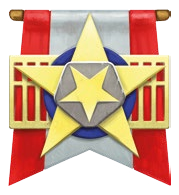
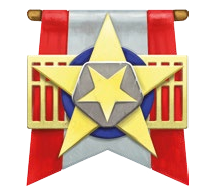
Adjust header (#94)

diff --git a/metadata.tex b/metadata.tex
@@ -178,11 +178,11 @@
   \raisebox{-\totalheight}[0pt][7pt]{
       \begin{tikzpicture}
         \draw (0, 0) node[inner sep=0] (header){\makebox[1.015\textwidth][c]{\includegraphics[width=1.055\linewidth, height=0.24\linewidth]{\layout/section_heading.png}}};
-        \draw (-6.2, 0) node {\includegraphics[width=0.125\textwidth]{#2}};
+        \draw (-6.7, 0) node {\includegraphics[width=0.135\textwidth]{#2}};
       \end{tikzpicture}
     }
   }
-  \begin{fullwidth}[leftmargin=0.2\textwidth]
+  \begin{fullwidth}[leftmargin=0.21\textwidth]
     \begin{center}
       \vspace{1em}
       \vspace{\lang_header_adjustment}
@@ -263,11 +263,11 @@
     \ifthenelse{\oneliner}{\def\yscale{1}}{\def\yscale{1.3}}
       \begin{tikzpicture}
         \draw (0, 0) node[inner sep=0, yscale=\yscale] (header){\makebox[1.015\textwidth][c]{\includegraphics[width=1.055\linewidth, height=0.24\linewidth]{\layout/section_heading.png}}};
-        \draw (-6.2, 0) node {\includegraphics[width=0.125\textwidth]{#5}};
+        \draw (-6.7, 0) node {\includegraphics[width=0.135\textwidth]{#5}};
       \end{tikzpicture}
     }
   }
-  \begin{fullwidth}[leftmargin=0.2\textwidth]
+  \begin{fullwidth}[leftmargin=0.21\textwidth]
     \begin{center}
       \vspace{\lang_header_adjustment}
       \vspace{-12pt}
